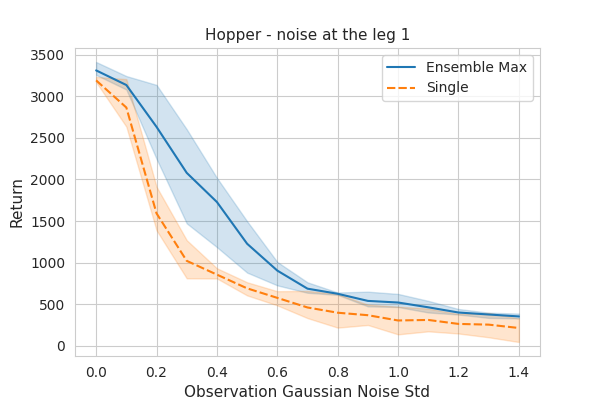
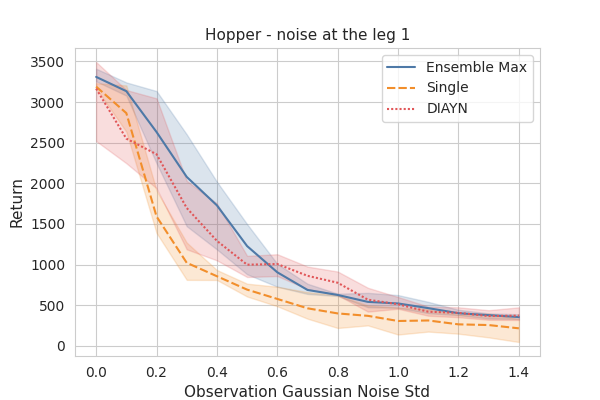
new analysis fig

diff --git a/script_plot/plot_for_obs_noise.py b/script_plot/plot_for_obs_noise.py
@@ -23,29 +23,40 @@ def plot(csv_path: str, title: str) -> None:
 
             chosen_noise_num = 15
             all_noise_scale = df.values[:chosen_noise_num,0]
-            max_return = np.max(df.values[:chosen_noise_num, :])
 
-            primitive_scores = df.values[:chosen_noise_num,1:]
-            max_primitive_rewards   =   np.max(primitive_scores, axis=-1)
-            baseline_rewards        =   primitive_scores[:,0]
+            if 'ensemble' in path:
+                primitive_scores = df.values[:chosen_noise_num,1:]
+                max_primitive_rewards   =   np.max(primitive_scores, axis=-1)
+                baseline_rewards        =   primitive_scores[:,0]
+                # process the data
+                new_df.append(
+                    pd.DataFrame({
+                        'noise scale'               : all_noise_scale,
+                        'return'                    : max_primitive_rewards,
+                        'alg'                       : ['Ensemble Max'] * len(max_primitive_rewards),
+                        'seed'                      : [seed] * len(max_primitive_rewards)
+                    })
+                ) 
+                new_df.append(
+                    pd.DataFrame({
+                        'noise scale'               : all_noise_scale,
+                        'return'                    : baseline_rewards,
+                        'alg'                       : ['Single'] * len(max_primitive_rewards),
+                        'seed'                      : [seed]  * len(max_primitive_rewards)
+                    })
+                )
+            elif 'diayn' in path:
+                primitive_scores = df.values[:chosen_noise_num,1:]
+                max_primitive_rewards   =   np.max(primitive_scores, axis=-1)
+                new_df.append(
+                    pd.DataFrame({
+                        'noise scale'               : all_noise_scale,
+                        'return'                    : max_primitive_rewards,
+                        'alg'                       : ['DIAYN'] * len(max_primitive_rewards),
+                        'seed'                      : [seed] * len(max_primitive_rewards)
+                    })
+                ) 
 
-            # process the data
-            new_df.append(
-                pd.DataFrame({
-                    'noise scale'               : all_noise_scale,
-                    'return'                    : max_primitive_rewards,
-                    'alg'                       : ['Ensemble Max'] * len(max_primitive_rewards),
-                    'seed'                      : [seed] * len(max_primitive_rewards)
-                })
-            ) 
-            new_df.append(
-                pd.DataFrame({
-                    'noise scale'               : all_noise_scale,
-                    'return'                    : baseline_rewards,
-                    'alg'                       : ['Single'] * len(max_primitive_rewards),
-                    'seed'                      : [seed]  * len(max_primitive_rewards)
-                })
-            )
         new_df = pd.concat(new_df)
 
     else:
@@ -101,10 +112,13 @@ def plot(csv_path: str, title: str) -> None:
 if __name__ == '__main__':
     plot(
         [
-            '/home/xukang/Project/state_filtration_for_qd/statistic/HalfCheetah_leg_1-10.csv',
-            '/home/xukang/Project/state_filtration_for_qd/statistic/HalfCheetah_leg_1-20.csv',
-            '/home/xukang/Project/state_filtration_for_qd/statistic/HalfCheetah_leg_1-30.csv',
+            '/home/xukang/Project/state_filtration_for_qd/statistic/ensemble/Walker_leg_1-10.csv',
+            '/home/xukang/Project/state_filtration_for_qd/statistic/ensemble/Walker_leg_1-20.csv',
+            '/home/xukang/Project/state_filtration_for_qd/statistic/ensemble/Walker_leg_1-30.csv',
+            '/home/xukang/Project/state_filtration_for_qd/statistic/diayn/Walker_leg_1-10.csv',
+            '/home/xukang/Project/state_filtration_for_qd/statistic/diayn/Walker_leg_1-20.csv',
+            '/home/xukang/Project/state_filtration_for_qd/statistic/diayn/Walker_leg_1-30.csv',
         ],
         
-        'HalfCheetah - noise at the leg 1'
+        'Walker - noise at the leg 1'
     )

diff --git a/baseline/diayn/test_in_noise_obs.py b/baseline/diayn/test_in_noise_obs.py
@@ -1,0 +1,94 @@
+from typing import List, Dict, Tuple
+import numpy as np
+import torch
+import ray
+import pandas as pd
+import yaml
+
+from state_filtration_for_qd.model.latent_policy import Latent_DiagGaussianPolicy
+from state_filtration_for_qd.env.common import call_env
+from state_filtration_for_qd.env.noise_obs_wrapper import Noise_Obs_Wrapper
+
+
+@ray.remote
+class Worker(object):
+    def __init__(self, model_path: str, model_config: Dict, num_episode: int, z: int) -> None:
+        self.model = Latent_DiagGaussianPolicy(
+            model_config['o_dim'],
+            model_config['a_dim'],
+            model_config['z_dim'],
+            model_config['policy_hidden_layers'],
+            model_config['policy_logstd_min'],
+            model_config['policy_logstd_max']
+        )
+        self.model.load_model(model_path)
+        self.z = z
+        self.z_one_hot = np.zeros([model_config['z_dim'],]).astype(np.float64)
+        self.z_one_hot[z] = 1
+        
+        self.num_episode = num_episode
+
+    def set_env(self, env_config: Dict, noise_type: str, noise_scale: float, noise_index: List[int])-> None:
+        self.env = Noise_Obs_Wrapper(call_env(env_config), noise_type, noise_scale, noise_index)
+
+    def rollout(self) -> float:
+        total_reward = 0
+        for _ in range(self.num_episode):
+            done = False
+            obs = self.env.reset()
+            while not done:
+                obs_z = np.concatenate([obs, self.z_one_hot], -1)
+                a = self.model.act(
+                    torch.from_numpy(obs_z).float(),
+                    False
+                ).detach().numpy()
+                obs, r, done, info = self.env.step(a)
+                total_reward += r
+        return total_reward / self.num_episode
+
+
+
+def main(path: str, remark: str, noise_index: List[int], csv_path: str) -> None:
+    with open(path + 'config.yaml', 'r', encoding='utf-8') as f:
+        config = yaml.safe_load(f)
+    
+    z_dim = config['model_config']['z_dim']
+    all_workers = []
+    model_path = path + f'model/policy_{remark}'
+    for k in range(z_dim):
+        all_workers.append(Worker.remote(model_path, config['model_config'], 20, k))
+
+    noise_range = [round(j * 0.1 + 0, 2) for j in range(16)]
+    score_dict = {'noise scale': noise_range}
+    score_dict.update({f'primitive {k}': [] for k in range(z_dim)})
+
+    for noise_scale in noise_range:
+        remotes = [worker.set_env.remote(config['env_config'], 'Gaussian', noise_scale, noise_index) for worker in all_workers]
+        ray.get(remotes)
+
+        rollout_remote = [worker.rollout.remote() for worker in all_workers]
+        all_primitive_scores = ray.get(rollout_remote)
+
+        best_primitive_index = np.argmax(all_primitive_scores)
+        all_primitive_scores = [all_primitive_scores[j] for j in range(z_dim)]
+        
+        print(f'\nnoise scale {noise_scale}')
+        for k in range(z_dim):
+            print(f"    Primitive {k}: {all_primitive_scores[k]}")
+        print(f"    Best primitive: {best_primitive_index}  -  {all_primitive_scores[best_primitive_index]}")
+
+        for k in range(z_dim):
+            score_dict[f'primitive {k}'].append(all_primitive_scores[k].item())
+        
+    score_df = pd.DataFrame(score_dict)
+    score_df.to_csv(csv_path, index=False)
+
+
+if __name__ == '__main__':
+    for seed in [10, 20, 30]:
+        main(
+            path=f'/home/xukang/Project/state_filtration_for_qd/results_for_diayn/r_ex-Walker-{seed}/',
+            remark='best',
+            noise_index=[2,3,4,11,12,13],
+            csv_path=f'/home/xukang/Project/state_filtration_for_qd/statistic/diayn/Walker_leg_1-{seed}.csv'
+        )

diff --git a/model/latent_policy.py b/model/latent_policy.py
@@ -43,7 +43,7 @@ class Latent_FixStdGaussianPolicy(nn.Module):
         return action, logprob, dist
 
     def load_model(self, path: str) -> None:
-        self.load_state_dict(torch.load(path))
+        self.load_state_dict(torch.load(path, map_location='cpu'))
         print(f"| - Loaded model from {path} - |")
 
 
@@ -95,5 +95,5 @@ class Latent_DiagGaussianPolicy(nn.Module):
         return action, logprob, dist
 
     def load_model(self, path: str) -> None:
-        self.load_state_dict(torch.load(path))
+        self.load_state_dict(torch.load(path, map_location='cpu'))
         print(f"| - Loaded model from {path} - |")
